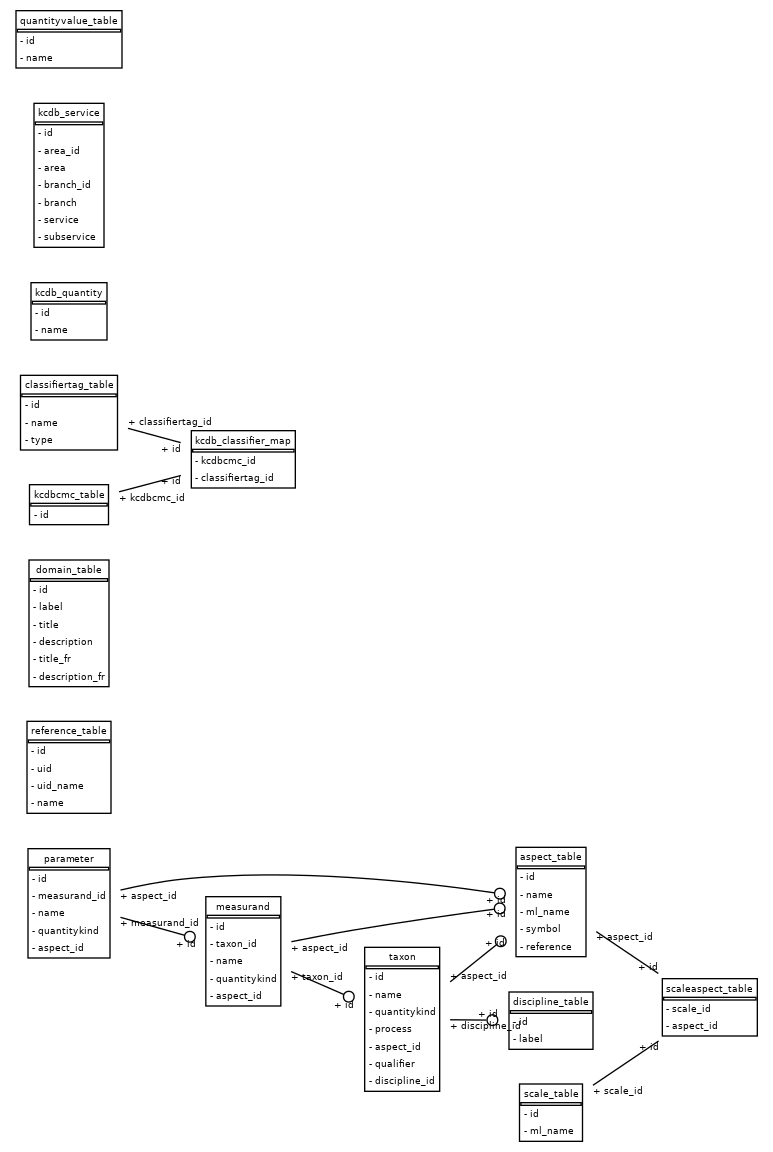
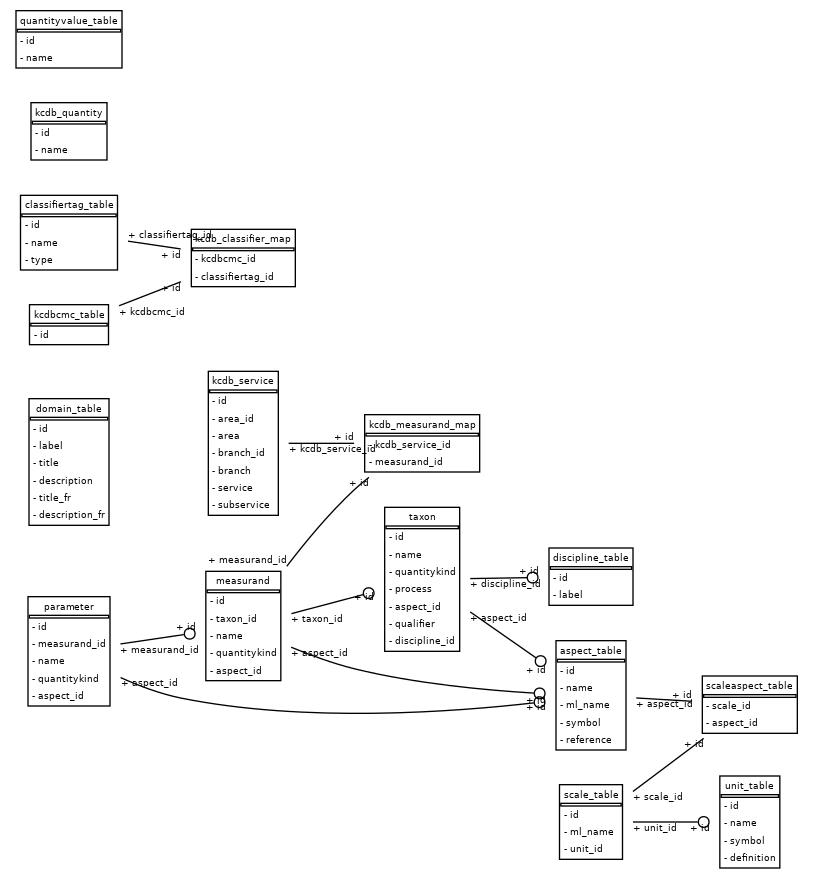
fixes to landing page. Add m-layer unit table and relation with scale. Add Measurand Kcdb service association table.

Changed region(s): [[0.0, 0.0, 0.9935, 1.0], [0.4036, 0.5529, 0.4347, 0.5836], [0.3726, 0.5836, 0.4036, 0.6143]]

diff --git a/miiflask/flask/templates/scale.html b/miiflask/flask/templates/scale.html
@@ -5,13 +5,13 @@
     <div class="content">
         <div class="service">
             <b>
-                <p>Identifier: ({{ scale.uid }}, {{ scale.uid_name }})</p>
+                <p>Identifier: ({{ scale.id }}, {{ scale.ml_name }})</p>
             </b>
             <b>
-                <p>Reference: {{ scale.reference }}</p>
+                <p>Reference: </p>
             </b>
             <b>
-                <p>Type of scale: {{ scale.scale_type }}</p>
+                <p>Type of scale: </p>
             </b>
             <b>
                 <p>Associated Aspects</p>

diff --git a/miiflask/flask/templates/index.html b/miiflask/flask/templates/index.html
@@ -33,7 +33,7 @@
         <div>
         <select multiple="multiple">
         {% for scale in scales %}
-              <option onClick="window.location = '/scale/{{ scale.id }}'">{{ scale.reference }}</option>
+              <option onClick="window.location = '/scale/{{ scale.id }}'">{{ scale.ml_name }}</option>
         {% endfor %}
         </select>
     </div>

diff --git a/miiflask/flask/model.py b/miiflask/flask/model.py
@@ -47,6 +47,21 @@ class Aspect(Base):
         return self.name
 
 
+class Unit(Base):
+    __tablename__ = "unit_table"
+    id = Column(String(50), primary_key=True)
+    name = Column(String(100))
+    symbol = Column(String(50))
+    definition = Column(String(50))
+    # ucum = relationship("UCUM")
+    # qudt = relationship("QUDT")
+    # system = relationship("System")
+    # dimensions = Column(String(10))
+    # prefix
+    def __str__(self):
+        return self.name
+
+
 class Scale(Base):
     __tablename__ = "scale_table"
     id = Column(String(10), primary_key=True)
@@ -55,7 +70,11 @@ class Scale(Base):
     #    Enum("ratio", "interval", "bounded", "ordinal", "nominal"),
     #    nullable=False,
     #)
-    # reference = Column(String(50))
+    #unit_id = Column(String(50))
+    unit_id = Column(
+        String(50), ForeignKey("unit_table.id"), nullable=True
+    )  # One-to-one
+    unit = relationship("Unit")
     aspects = relationship(
         "Aspect", secondary=scaleaspect_table, back_populates="scales"
     )
@@ -64,20 +83,6 @@ class Scale(Base):
         return self.ml_name
 
 
-class Reference(Base):
-    __tablename__ = "reference_table"
-    id = Column(Integer, primary_key=True, index=True)
-    uid = Column(String(50))
-    uid_name = Column(String(50))
-    name = Column(String(50))
-
-    # ucum = relationship("UCUM")
-    # qudt = relationship("QUDT")
-    # system = relationship("System")
-    # dimensions = Column(String(10))
-    # prefix
-    def __str__(self):
-        return self.name
 
 
 # MII Taxonomy Model
@@ -221,6 +226,16 @@ kcdb_classifier_map = Table(
     ),
 )
 
+kcdb_measurand_map = Table(
+    "kcdb_measurand_map",
+    Base.metadata,
+    Column("kcdb_service_id", ForeignKey("kcdb_service.id"), primary_key=True),
+    Column(
+        "measurand_id",
+        ForeignKey("measurand.id"),
+        primary_key=True,
+    ),
+)
 
 # MRA SIM Calibration and Measurement Capabilities entries in the KCDB
 class KcdbCmc(Base):
@@ -242,6 +257,7 @@ class KcdbQuantity(Base):
     id = Column(Integer, primary_key=True, index=True)
     name = Column(String(200))
 
+
 class KcdbService(Base):
     __tablename__ = "kcdb_service"
     id = Column(String(50), primary_key=True)
@@ -251,7 +267,9 @@ class KcdbService(Base):
     branch = Column(String(50))
     service = Column(String(200))
     subservice = Column(String(200))
-
+    measurands = relationship(
+        "Measurand", secondary=kcdb_measurand_map, backref="kcdbservices"
+    )
 # KCDB quantityValue description
 # Requires mapper from KCDB quantity Value to quantity kind
 class QuantityValue(Base):
@@ -298,16 +316,26 @@ class KcdbQuantitySchema(SQLAlchemyAutoSchema):
         include_relationships = True
         load_instance = True
 
+
 class KcdbServiceSchema(SQLAlchemyAutoSchema):
     class Meta:
         model = KcdbService
         include_relationships = True
         load_instance = True
 
+
+class UnitSchema(SQLAlchemyAutoSchema):
+
+    class Meta:
+        model = Unit
+        include_relationships = True
+        load_instance = True
+
+
 class ScaleSchema(SQLAlchemyAutoSchema):
     # requires serializing enum
     #scale_type = marshmallow_sqlalchemy.fields.Method("get_scale_type")
-
+    unit = Nested(UnitSchema)
     class Meta:
         model = Scale
         include_relationships = True
@@ -319,13 +347,6 @@ class AspectSchema(SQLAlchemyAutoSchema):
 
     class Meta:
         model = Aspect
-        include_relationships = True
-        load_instance = True
-
-
-class ReferenceSchema(SQLAlchemyAutoSchema):
-    class Meta:
-        model = Reference
         include_relationships = True
         load_instance = True
 

diff --git a/miiflask/mappers/mlayer_mapper.py b/miiflask/mappers/mlayer_mapper.py
@@ -27,9 +27,11 @@ class MlayerMapper:
         # self._dbpath = (self._path_root / 'data/nrc_mis.db')
         self._aspects = {}
         self._scales = {}
+        self._units = {}
         self._schemas = {
             "aspect": model.AspectSchema(),
             "scale": model.ScaleSchema(),
+            "unit": model.UnitSchema()
         }
         self.Session = session
 
@@ -50,6 +52,19 @@ class MlayerMapper:
                 for aspect in data:
                     self._aspects[aspect["id"]] = aspect
 
+    def extractMlayerUnits(self):
+        
+        response = requests.get(self._api + "/units")
+        print(response.status_code)
+        if response.status_code  == 200: 
+            for unit in response.json():
+                self._units[unit["id"]] = unit
+        else:
+            with self._units_path.open() as f:
+                data = json.load(f)
+                for unit in data:
+                    self._units[unit["id"]] = unit
+    
     def extractMlayerScales(self):
         
         response = requests.get(self._api + "/scales")
@@ -124,6 +139,25 @@ class MlayerMapper:
                 self.Session.add(aspect)
                 print(aspect.name)
 
+    
+    def loadUnitCollection(self):
+        for key in self._units:
+            unit = (
+                self.Session.query(model.Unit)
+                .filter(model.Unit.id == key)
+                .first()
+            )
+            if not unit:
+                data_ = {
+                    "id": key,
+                    "name": self._units[key]["name"],
+                    #"scale_type": self._scales[key]["type"],
+                }
+                unit = self._schemas["unit"].load(
+                    data_, session=self.Session
+                )
+                self.Session.add(unit)
+    
     def loadScaleCollection(self):
         for key in self._scales:
             # uid = self.getTableIdentifier(self._scales[key][1])
@@ -133,14 +167,22 @@ class MlayerMapper:
                 .first()
             )
             if not scale:
+                #print(self._scales[key])
                 data_ = {
                     "id": key,
                     "ml_name": self._scales[key]["ml_name"],
+                    #"unit_id": self._scales[key]["unit_id"],
                     #"scale_type": self._scales[key]["type"],
                 }
                 scale = self._schemas["scale"].load(
                     data_, session=self.Session
                 )
+                unit = (
+                    self.Session.query(model.Unit)
+                    .filter(model.Unit.id == self._scales[key]["unit_id"])
+                    .first()
+                )
+                scale.unit = unit
                 self.Session.add(scale)
 
 

diff --git a/miiflask/flask/app.py b/miiflask/flask/app.py
@@ -21,6 +21,7 @@ from miiflask.flask.db import Base
 from miiflask.flask.model import (
     Measurand,
     Aspect,
+    Unit,
     Scale,
     KcdbCmc,
     KcdbQuantity,
@@ -60,10 +61,11 @@ from miiflask.flask.views import (
 
 admin = Admin(app, name="qms", template_mode="bootstrap3")
 admin.add_view(ModelView(Domain, db.session))
-admin.add_view(MeasurandView(Measurand, db.session))
 admin.add_view(MyModelView(Aspect, db.session))
-admin.add_view(MyModelView(KcdbQuantity, db.session))
-admin.add_view(MyModelView(KcdbService, db.session))
 admin.add_view(MyModelView(Scale, db.session))
+admin.add_view(MyModelView(Unit, db.session))
+admin.add_view(MeasurandView(Measurand, db.session))
+admin.add_view(MyModelView(KcdbService, db.session))
+admin.add_view(MyModelView(KcdbQuantity, db.session))
 admin.add_view(CMCView(KcdbCmc, db.session))
 

diff --git a/dbinit.py b/dbinit.py
@@ -28,6 +28,8 @@ def main(parms):
         mapper = MlayerMapper(session, parms)
         mapper.extractMlayerAspects()
         mapper.loadAspectCollection()
+        mapper.extractMlayerUnits()
+        mapper.loadUnitCollection()
         mapper.extractMlayerScales()
         mapper.loadScaleCollection()
 

diff --git a/miiflask/flask/views.py b/miiflask/flask/views.py
@@ -61,7 +61,7 @@ class MeasurandView(ModelView):
 @app.route("/")
 def index():
     measurands = Measurand.query.all()
-    aspects = QuantityKind.query.all()
+    aspects = Aspect.query.all()
     scales = Scale.query.all()
     return render_template(
         "index.html",
